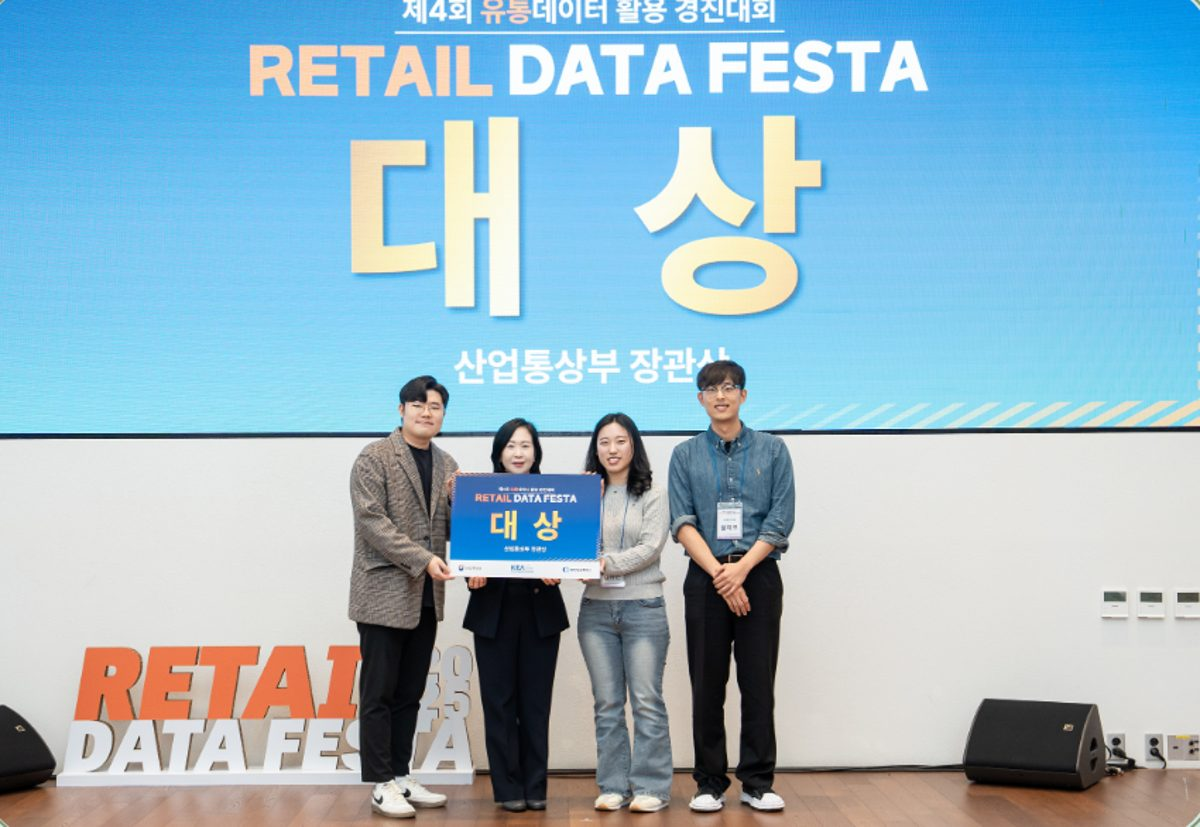
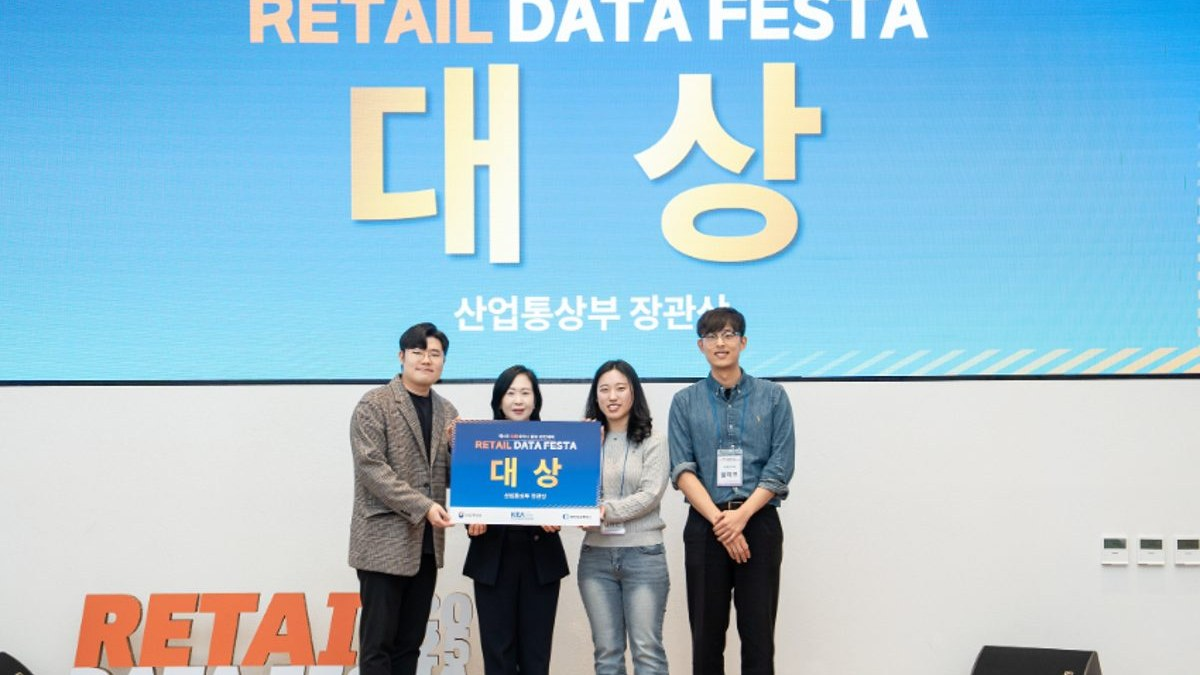
Frame every course highlight image at 16:9 and add the IME seminar title

diff --git a/_themes/wide/includes/course/course.css b/_themes/wide/includes/course/course.css
@@ -152,8 +152,7 @@ a.cs-title:hover { color: var(--accent); }
 .project-teams td { vertical-align: middle; }  /* title and members on the left, one line per round on the right */
 .project-highlights { display: grid; gap: var(--item-gap); margin: 0; padding: 0; list-style: none; }  /* one card per award: photo left, what and who right */
 .project-highlights > li { display: grid; grid-template-columns: minmax(0, 2fr) minmax(0, 3fr); gap: var(--space-5); align-items: center; padding: var(--card-padding); background: var(--surface); border-radius: var(--radius-2); }
-.project-highlights img { display: block; width: 100%; height: auto; aspect-ratio: 16 / 9; object-fit: cover; object-position: 50% 35%; border-radius: var(--radius-1); }  /* photos share one landscape frame */
-.project-highlights img[src$=".svg"] { aspect-ratio: auto; }  /* a chart keeps its own shape */
+.project-highlights img { display: block; width: 100%; height: auto; aspect-ratio: 16 / 9; object-fit: cover; object-position: 50% 35%; border-radius: var(--radius-1); }  /* every highlight image uses the 16:9 slide frame */
 .project-highlight-title { display: block; font-size: var(--text-lead); font-weight: var(--weight-heading); }
 .project-highlight-title a { color: inherit; }
 .project-highlight-when { display: block; margin-top: var(--space-1); color: var(--muted); font-size: var(--text-meta); }

diff --git a/_themes/wide/includes/course/project.html b/_themes/wide/includes/course/project.html
@@ -1,6 +1,7 @@
 {% comment %}
   팀 프로젝트 페이지(teaching/<id>/project/). 내용은 _data/courses/<id>.yml 의 project 아래다.
   순서: 머리 → Timeline(팀 구성 마감, 인원, 제안·최종 발표 일정) → Evaluation(평가 기준) → Teams(팀 번호, 제목·팀원, 발표 회차마다 날짜·순서·슬라이드) → Highlights(프로젝트로 받은 상 같은 성과, 있을 때만, 여러 개).
+  Highlights 그림은 사진이든 그래프든 슬라이드 비율 16:9 로 맞춘 파일을 둔다(사진은 1200x675 로 잘라 두고, 그래프 SVG 는 viewBox 를 16:9 로). CSS 도 16:9 틀로 보여 준다(2026-11-02 교수).
   평가 기준을 팀 표보다 먼저 둔다(2026-10-28 교수).
   학생은 project.sheet(구글 시트)에 입력하고, 교수가 그 내용을 yml 의 teams 로 옮긴다. sheet 가 있을 때만 Teams 절 첫 줄에 시트 링크가 보인다(머리에 두지 않는다, 2026-10-30 교수).
 {% endcomment %}

diff --git a/changelog/2026-11-02-project-page-polish.md b/changelog/2026-11-02-project-page-polish.md
@@ -26,3 +26,10 @@ POSTECH 요구사항: 영향 없음
 
 ## 남은 것
 없음.
+
+## 후속: Highlights 16:9 통일과 최종 점검
+- 교수: Highlights 그림은 슬라이드 비율로 통일하고 모든 그림의 규격을 맞추자.
+- 사진 파일을 1200x675(16:9)로 잘라 두었다(위쪽 35% 기준). 그래프 SVG 는 viewBox 를 800x450(16:9)으로 바꿨다. CSS 의 SVG 예외를 빼서 모든 그림이 같은 16:9 틀이다. 규격은 `project.html` 머리 주석에 적었다.
+- 26S 일정 04/29 교수 IME 세미나에 발표 제목을 넣었다(`_data/talks.yml` 과 같은 제목). 04/23 윤송이, 05/29 전영환, 25F 11/27 신기영 세미나는 MS365 캘린더에도 제목이 없어 비워 두었다.
+- 저장소 안 iCloud 충돌 사본(`… 2`, 파일 99개와 폴더 5개)은 원본과 같거나 원본의 부분집합이라 지웠다. 사본은 세션 scratchpad 에 옮겨 두었다.
+- 점검: 세 강의 9개 페이지 내부 링크 365개 깨짐 없음, 외부 링크는 LinkedIn 3개(봇 차단 999)를 빼고 200. 로컬 Chromium 이 실행되지 않아 전수 검사는 GitHub Actions `audit` 로 돌렸다.
